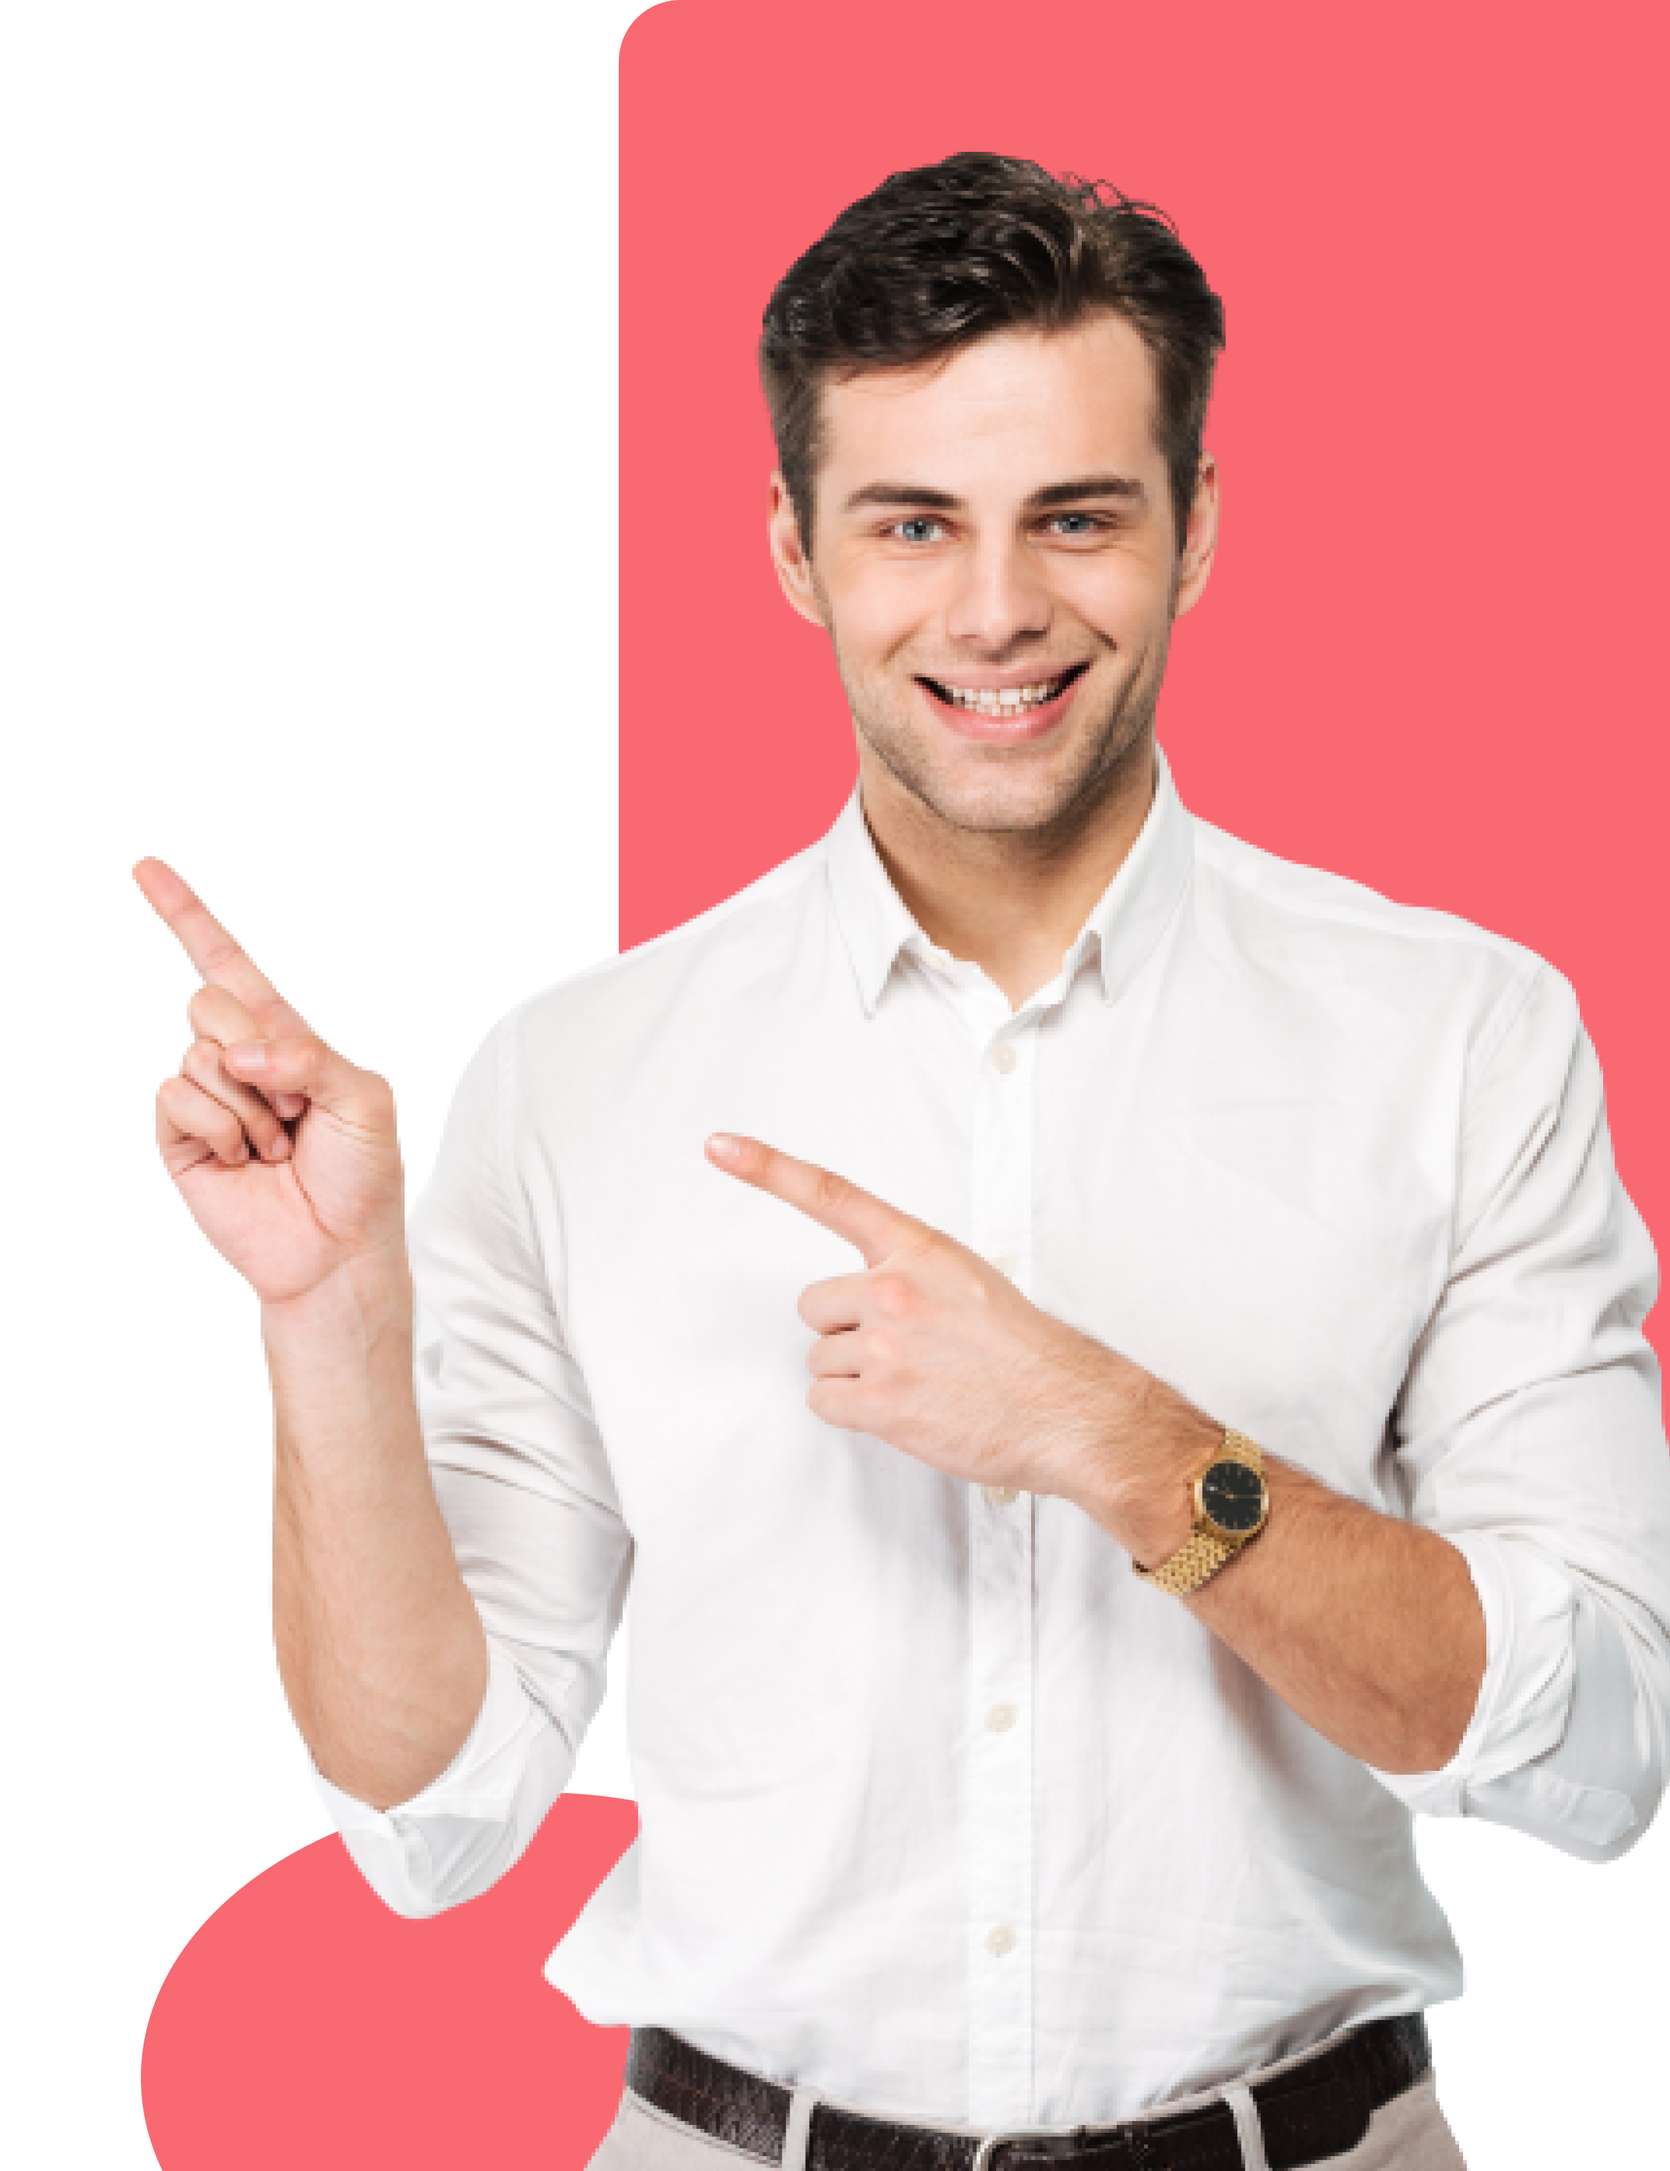
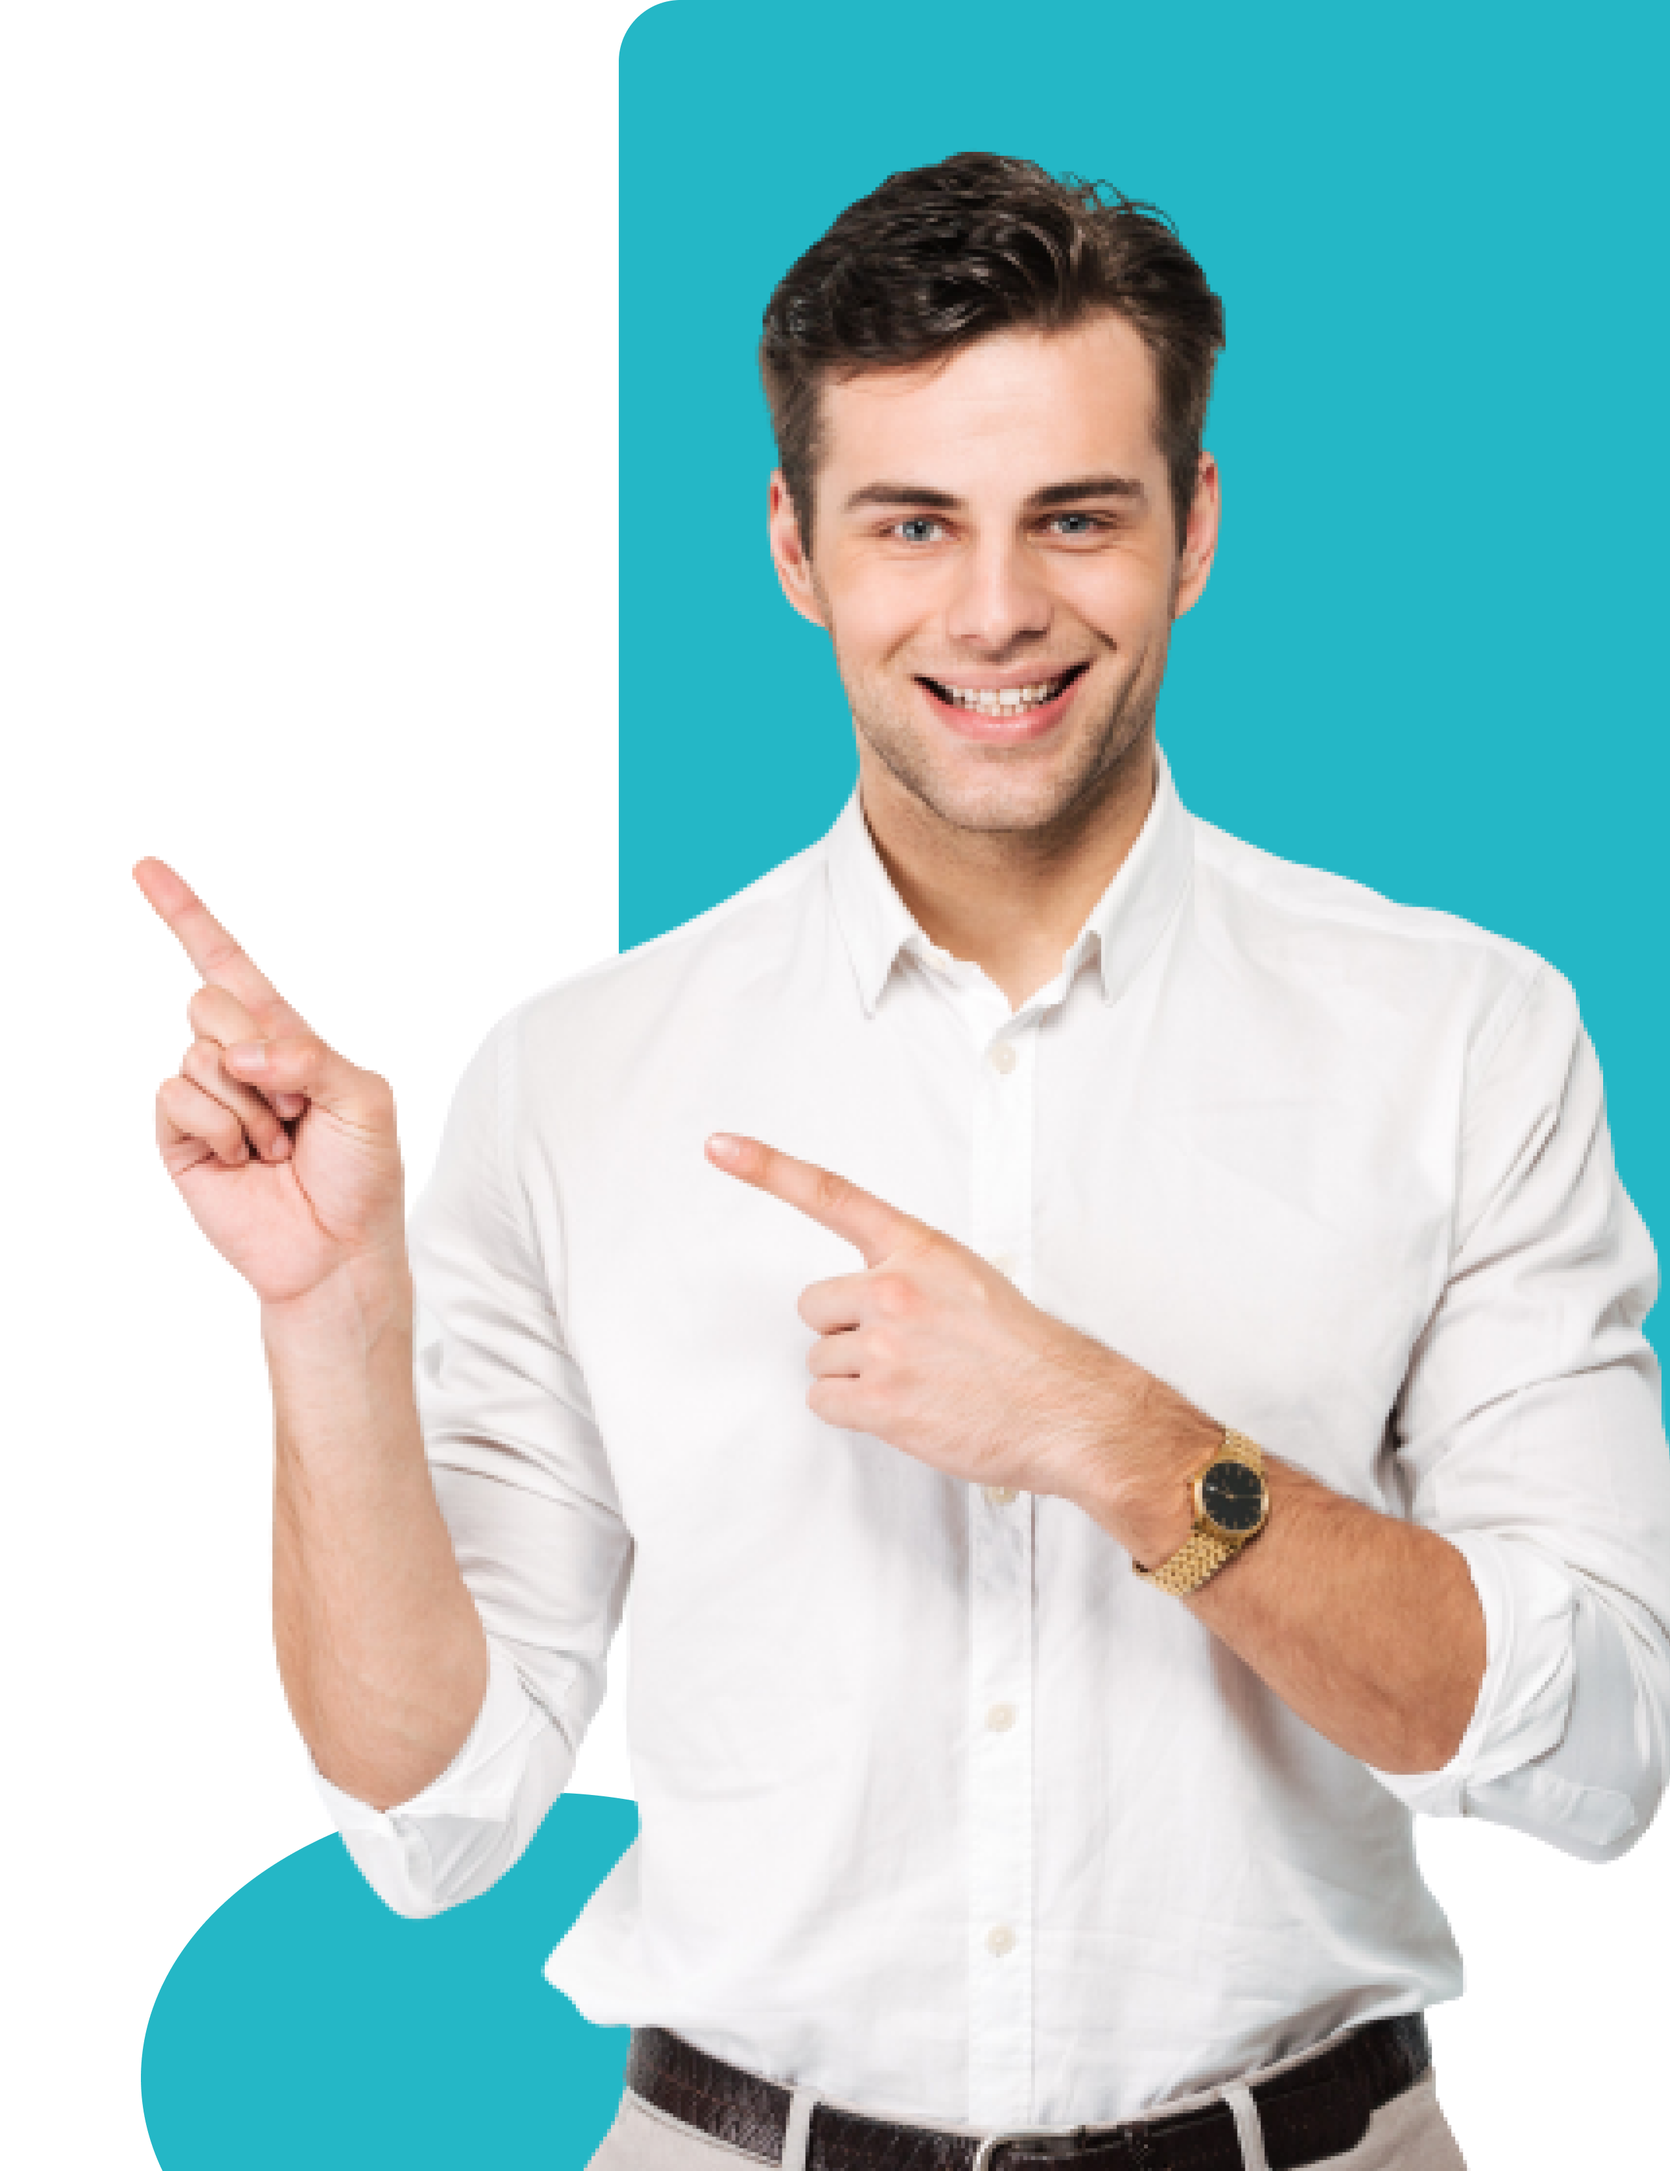
Changing frontend of Homepage

Changed region(s): [[0.3733, 0.0, 1.0, 0.6844], [0.0622, 0.8089, 0.4044, 1.0]]

diff --git a/app/assets/stylesheets/eval_us.scss b/app/assets/stylesheets/eval_us.scss
@@ -5,24 +5,45 @@
 // They will automatically be included in application.css.
 // You can use Sass (SCSS) here: https://sass-lang.com/
 #image_div{
-   width: 30%;
+   width: 50%;
    height: auto;
-   margin-left: 10vw;
+   margin-left: 5vw;
+}
+#image{
+    width: 30%;
+    height: auto;
+    margin-left: 7vw;
+}
+#tag_text{
+    font-size: 1.3vw; 
+    color: white; 
+    margin-left: 11vw;
+    margin-top: -4vw;
+    font-family: Poppins;
 }
 #logo_evalu{
     width: 9vw;
     margin-left: 5vw;
-    margin-top: 1.5vw;
+    margin-top: 8vw;
     
+}
+#text_evalu{
+    width: 18vw;
+    margin-left: 2vw;
+    margin-top: -1vw;
+}
+#content{
+    background-color: #24B7C6;
+    margin-top: 6vw;
+    height: 30vw;
 }
 .text_color{
     font-family: Poppins;
     margin-left: 10vw;
-    color: #012C3D;
+    color: white;
     font-size: 4vw;
     // text-align: center;
     padding-top: 8vw;
-    // text-shadow: 2px 2px #2F85CC;
 }
 #fwsa_color{
     font-family: Poppins;
@@ -30,11 +51,12 @@
     position: absolute;
     left: 11%;
     top: 13vw;
-    color: #16a7b7;
+    color: #F96972;
     font-size: 1.5vw;
     
 }
 #btn_style{
+    cursor: pointer;
     font-family: Poppins;
     font-weight: bold;
     font-size: 1.5vw;
@@ -43,8 +65,8 @@
     padding-left: 5px;
     padding-right: 5px;
     margin-left: 11vw;
-    margin-top: -2%;
-    background-color: #24B7C6;
+    margin-top: 1vw;
+    background-color: #F96972;
     color: white;
     width: 10vw;
     height: 5.5vh;
@@ -53,13 +75,13 @@
     padding: 6px;
 }
 ul {
-    padding-left: 55vw;
+    padding-left: 65vw;
     list-style-type: none;
-    // overflow: hidden;
+    // background-color: ;
     padding-top: 3vw;
     margin-top: -2%;
     padding-bottom: 10px;
-    border-color: rgba(0, 0, 0, 0.458);
+    color: #24B7C6;
     position: fixed;
     width: max-content;
     width: 100%;
@@ -71,14 +93,94 @@ ul {
     }   
     
     li a {
+    
     display: block;
-    color: #012C3D;
+    color: #24B7C6;
     font-size: 25px;
     text-align: center;
     padding: 14px 16px;
     text-decoration: none;
+    // font-weight: 900;
     }
 
     li a:hover{
         font-weight: 900;
+    }
+    .short_note{
+        width: 25vw;
+        margin-left: 8vw;
+        margin-top: 4vw;
+        margin-right: 6vw;
+        text-align: center;
+        
+    }
+    .head{
+        font-family: Poppins;
+        margin-top: 2vw;
+        color: #24B7C6;
+    }
+    #footer{
+        margin-top: 8vw;
+        background-color: whitesmoke;
+        width: 100%;
+        height: 30vw;
+        color: #F96972;   
+    }
+    #footer a{
+        font-family: Poppins;
+        text-decoration: none; 
+        color: #F96972;
+        font-size: 1.3vw;
+        margin-top: 1vw;
+        margin-left: 15vw;
+    }
+    #footer a:hover{
+        font-weight: 900;
+    }
+    #footer_evalu{
+        width: 12vw;
+        margin-top: 7vw;
+        margin-left: 28vw;
+    }
+    .footer_image{
+        width: 4vw;
+        margin-top: 5vw;
+        margin-left: 2vw;
+    }
+    #wrong_symbol{
+        width: 2vw;
+        margin-left: 33vw;
+    }
+    #redirect_page{
+        margin-top: 10vw ;
+        margin-left: 30vw;
+        width: 35vw;
+        height: 20vw;
+        border-radius: 2vw;
+        
+    }
+    #enter_code{
+        width: 35vw;
+        margin-left: 30vw;
+        margin-top: 10vw;
+        height: 20vw;
+        border-radius: 2vw;
+        text-align: center;
+    }
+    #code_id{
+        margin-top: 4vw;
+        width: 15vw;
+        height: 2.5vw;
+        font-size: 1.5vw;
+        border-radius: 15px;
+        color: black
+    }
+    #enter_btn{
+        background-color: #F96972;
+        border-color: #F96972;
+        width: 6vw;
+        font-size: 1.2vw;
+        font-family: Poppins;
+        color: white;
+        margin-top: 3vw;
     }
